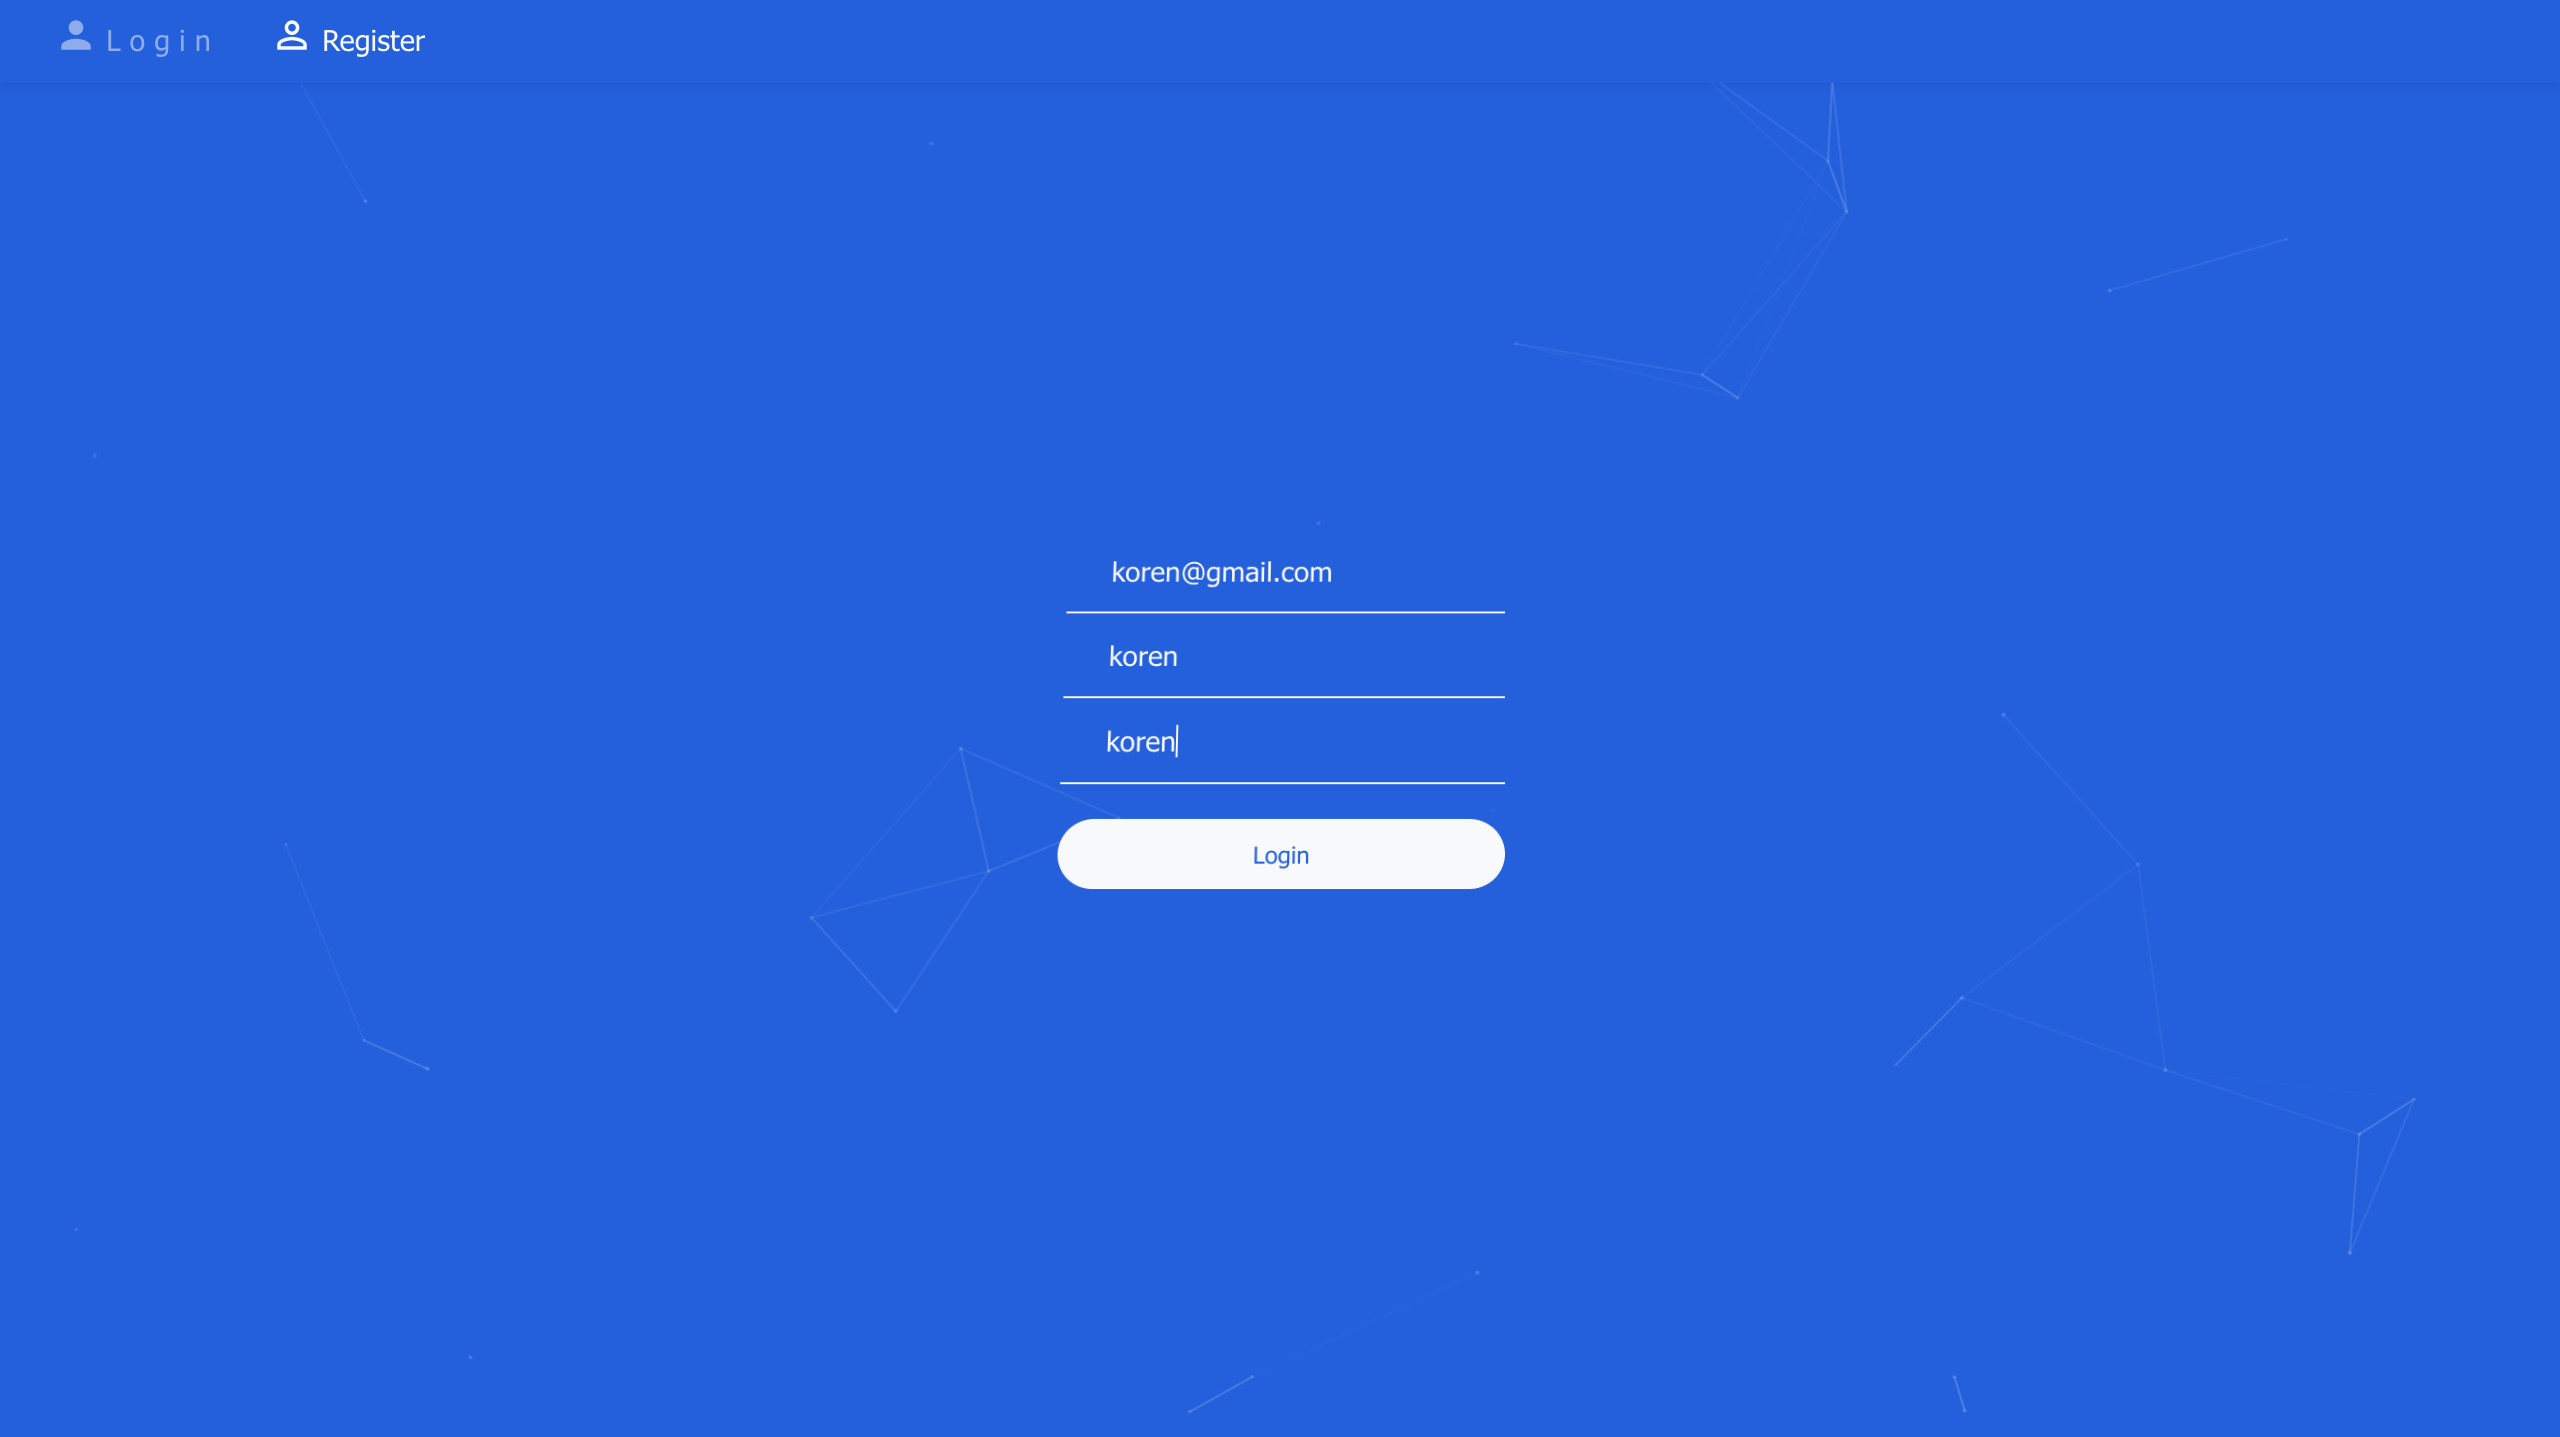
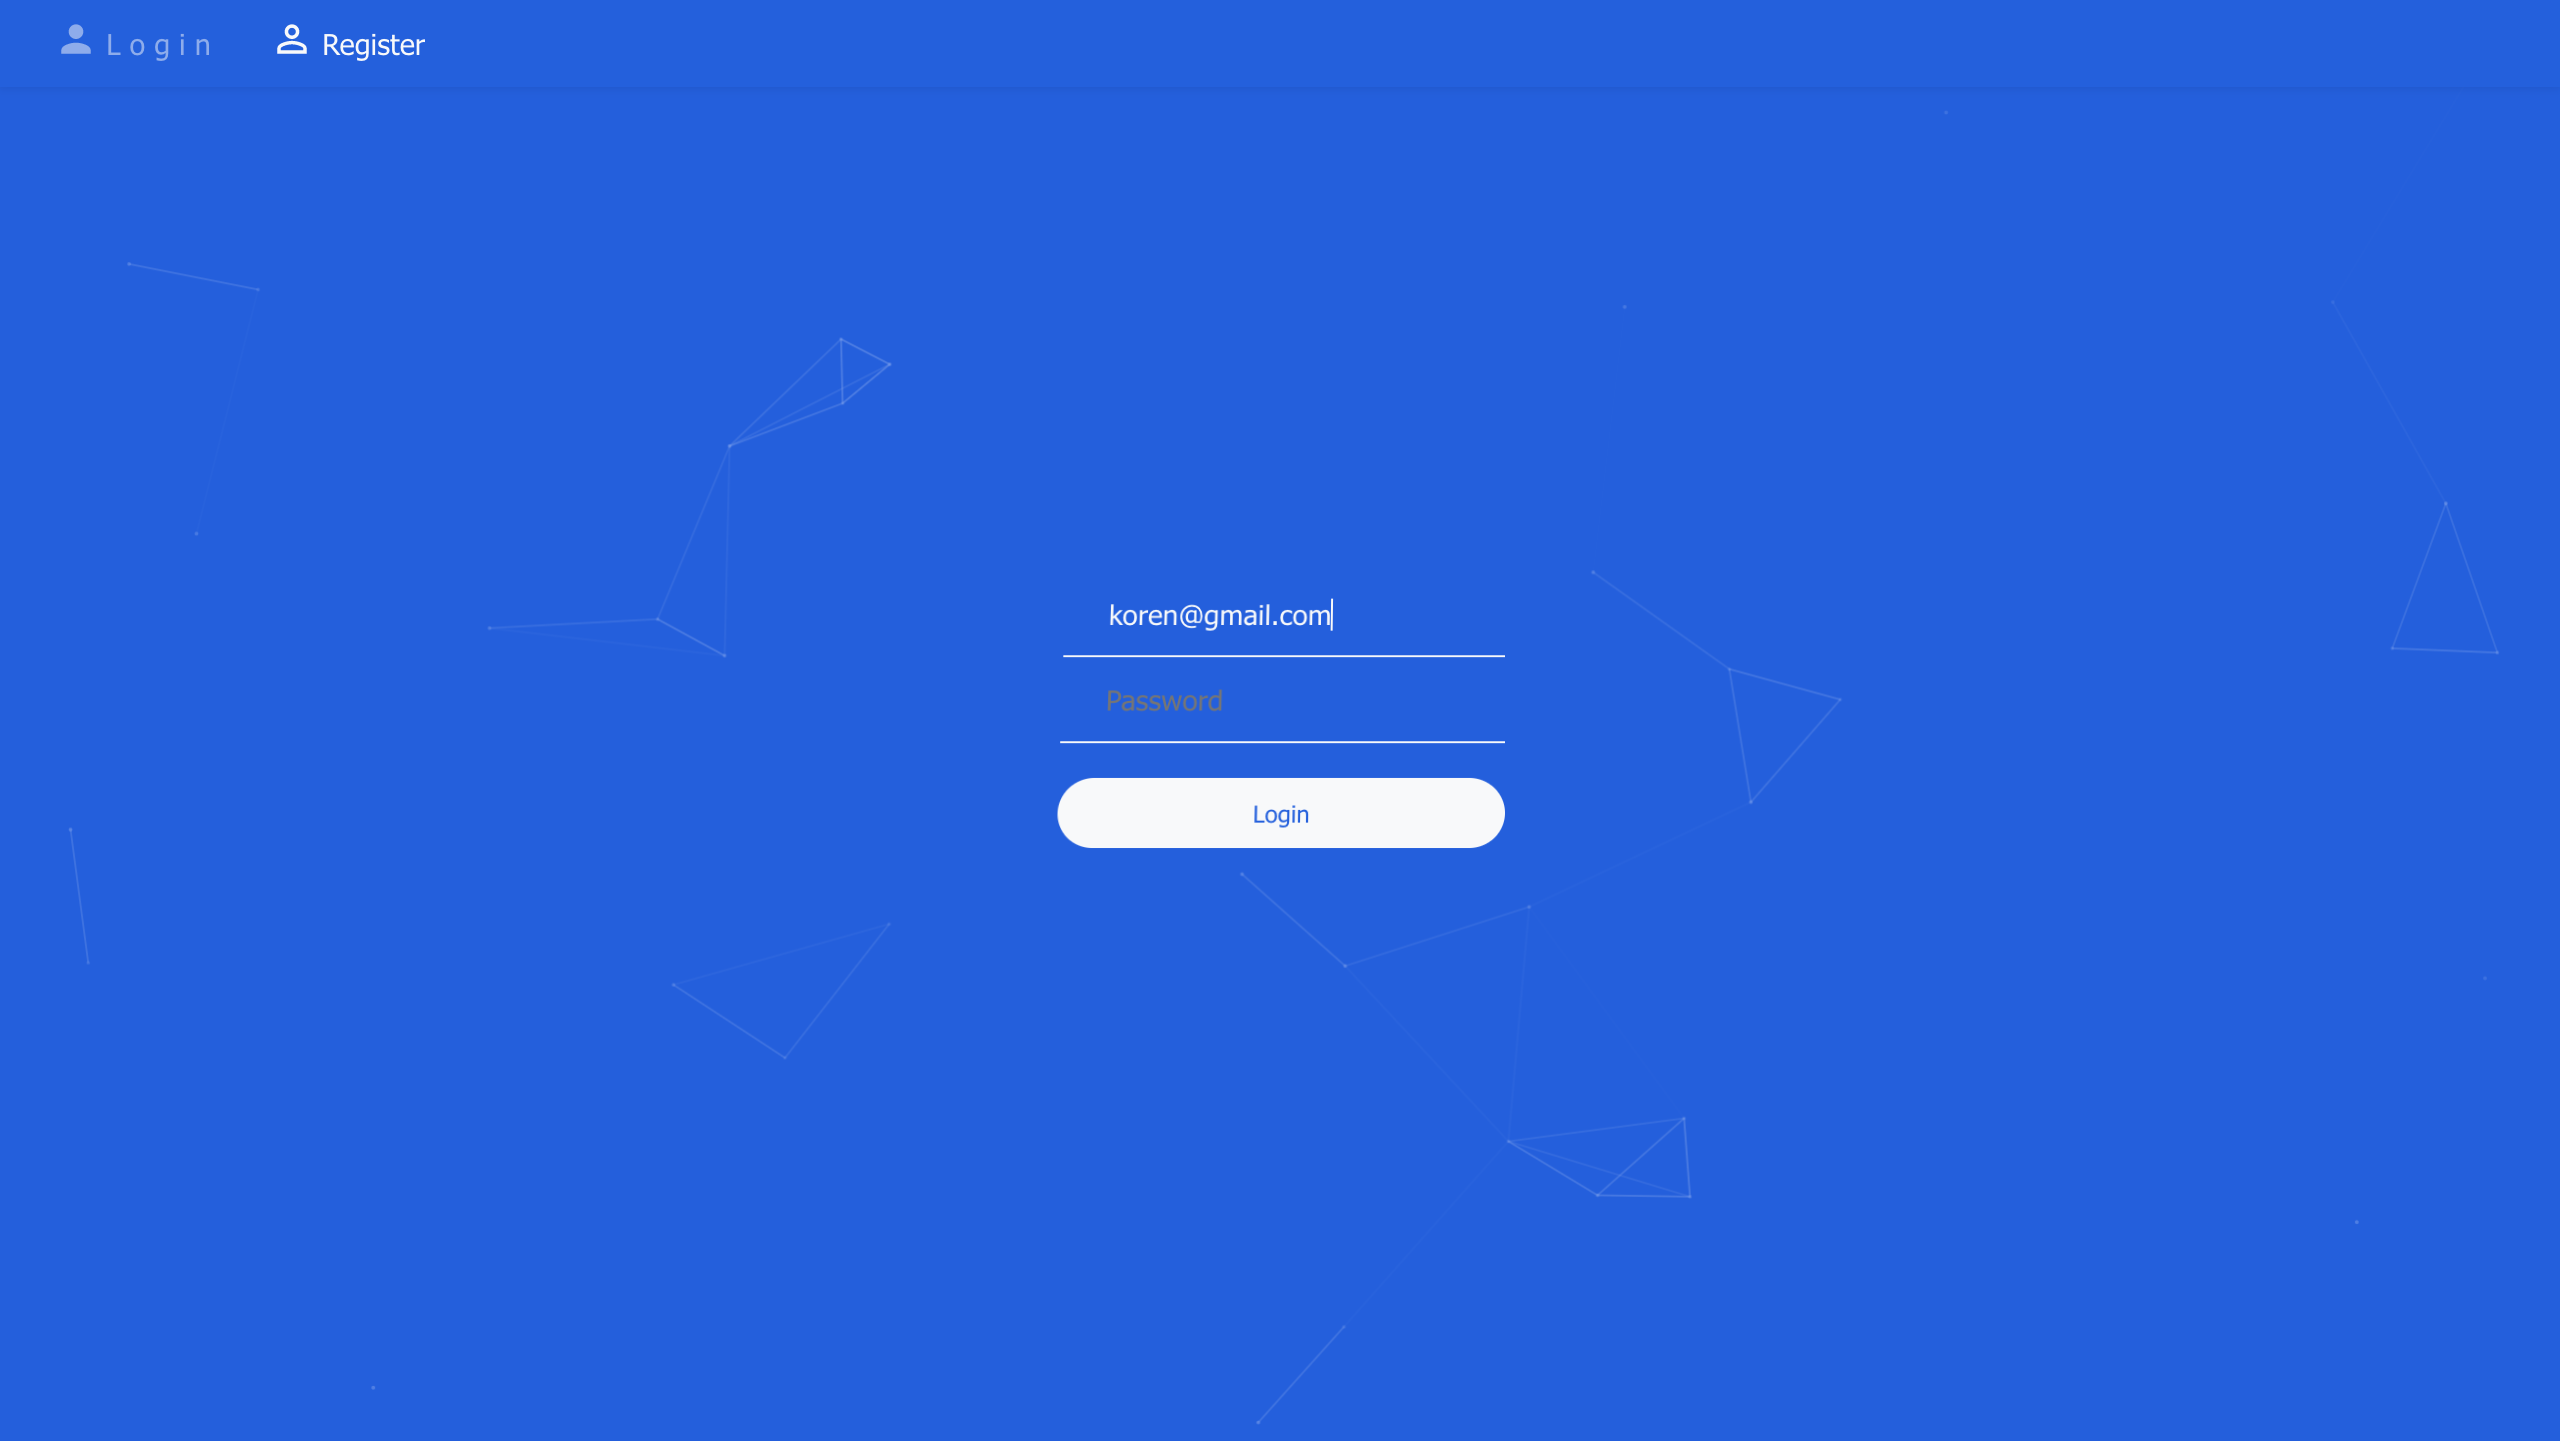
add prtected,router

Changed region(s): [[0.4062, 0.3981, 0.5938, 0.643], [0.125, 0.0, 0.1562, 0.0612]]

diff --git a/client/src/components/Login.js b/client/src/components/Login.js
@@ -1,22 +1,25 @@
 import React, { useState } from 'react'
 import axios from 'axios'
-import Validation from './Validation'
+import {Validation} from './Protected'
 import config from '../config.json'
-import { toast } from 'react-toastify';
+import { toast } from 'react-toastify'
+import { useHistory } from "react-router-dom"
+import Auth from './Auth'
 
 export default function Login() {
+    const history = useHistory()
     const [email , setEmail] = useState('')
-    const [name , setName] = useState('')
     const [password , setPassword] = useState('')
     
 
     const Login = () =>{
-        !Validation(email , name , password)? console.log(config.FIELD_ERR) :
-        axios.post( config.LOGIN_URL , {email , name , password})
+        !Validation(email , 'LOGIN' , password)? console.log(config.FIELD_ERR) :
+        axios.post( config.LOGIN_URL , {email , password})
         .then(res =>{
             toast.configure();
             toast.info(config.LOGIN_SUCCESS, {autoClose: 2000});
-            setEmail('');setName('');setPassword('');
+            sessionStorage.setItem('name', res.data.name);
+            Auth.login(() => {history.push("/main")})
         })
         .catch(err => {
             toast.configure();
@@ -26,9 +29,8 @@ export default function Login() {
 
     return (
         <div className='card-form'>
-             <input value={email} type='text' placeholder='Email' onChange={e=>setEmail(e.target.value)}/>
-            <input value={name} type='text' placeholder='Name' onChange={e=>setName(e.target.value)}/>
-            <input value={password} type='text' placeholder='Password' onChange={e=>setPassword(e.target.value)}/>
+             <input type='text' placeholder='Email' onChange={e=>setEmail(e.target.value)}/>
+            <input type='text' placeholder='Password' onChange={e=>setPassword(e.target.value)}/>
             <button onClick={()=>Login()}>Login</button>
         </div>
     )

diff --git a/client/src/components/Register.js b/client/src/components/Register.js
@@ -1,10 +1,12 @@
 import React, { useState } from 'react'
 import axios from 'axios'
-import Validation from './Validation'
+import {Validation} from './Protected'
 import config from '../config.json'
 import { toast } from 'react-toastify';
+import { useHistory } from "react-router-dom"
 
 export default function Register() {
+    const history = useHistory()
     const [email , setEmail] = useState('')
     const [name , setName] = useState('')
     const [password , setPassword] = useState('')
@@ -15,7 +17,7 @@ export default function Register() {
         .then(res =>{
             toast.configure();
             toast.info(config.REGISTER_SUCCESS, {autoClose: 2000});
-            setEmail('');setName('');setPassword('');
+            history.push("/")
         })
         .catch(err => {
             toast.configure();
@@ -25,9 +27,9 @@ export default function Register() {
 
     return (
         <div className='card-form'>
-            <input value={email} type='text' placeholder='Email' onChange={e=>setEmail(e.target.value)}/>
-            <input value={name} type='text' placeholder='Name' onChange={e=>setName(e.target.value)}/>
-            <input value={password} type='text' placeholder='Password' onChange={e=>setPassword(e.target.value)}/>
+            <input type='text' placeholder='Email' onChange={e=>setEmail(e.target.value)}/>
+            <input type='text' placeholder='Name' onChange={e=>setName(e.target.value)}/>
+            <input type='text' placeholder='Password' onChange={e=>setPassword(e.target.value)}/>
             <button onClick={()=>Register()}>Register</button>
         </div>
     )

diff --git a/server.js b/server.js
@@ -1,44 +1,15 @@
 const Client = require('mongodb').MongoClient;
 const config = require('./config.json')
 const express = require("express");
-const bcrypt = require('bcrypt');
+const auth = require('./auth')
 const cors = require('cors')
 const app = express();
+
 app.use(express.json());
 app.use(cors())
+app.use('/auth', auth);
 
-app.post('/register',(req,res) => {
-    Client.connect(config.URL ,  { useUnifiedTopology: true } ,(err, db) => {
-        if (err) throw err;
-        bcrypt.hash(req.body.password, 10 , (err, password) => {
-        db.db(config.DB).collection(config.COLL).insertOne({
-            name:req.body.name,
-            email:req.body.email,
-            password:password
-        }
-        ,(err, res) => {
-          if (err) throw err;
-          db.close();
-        })})
-        res.status(200).json(config.SUCCESS)
-    });
-});
-
-app.post('/login',(req,res) => {
-    Client.connect(config.URL , { useUnifiedTopology: true },(err, db) => {
-        if (err) throw err;
-        db.db(config.DB).collection(config.COLL).find({email:req.body.email}).toArray((err, result) => {
-            db.close();
-            if (err) throw err;
-            result.length===0? res.status(401).json(config.FAIL[1]):
-            bcrypt.compare(req.body.password, result[0].password , (err, bcryptStatus) => {
-                bcryptStatus?res.status(200).json(result[0]):res.status(401).json(config.FAIL[0])
-            });
-        });
-    });
-});
-
-app.listen(5000)
+app.listen(config.PORT)
 
 
 

diff --git a/auth.js b/auth.js
@@ -1,0 +1,39 @@
+const bcrypt = require('bcrypt');
+const Client = require('mongodb').MongoClient;
+const config = require('./config.json')
+const express = require('express')
+const router = express.Router()
+
+router.post('/register',(req,res) => {
+    Client.connect(config.URL ,  { useUnifiedTopology: true } ,(err, db) => {
+        if (err) throw err;
+        bcrypt.hash(req.body.password, 10 , (err, password) => {
+        db.db(config.DB).collection(config.COLL).insertOne({
+            name:req.body.name,
+            email:req.body.email,
+            password:password
+        }
+        ,(err, res) => {
+          if (err) throw err;
+          db.close();
+        })})
+        res.status(200).json(config.SUCCESS)
+    });
+});
+
+router.post('/login',(req,res) => {
+    Client.connect(config.URL , { useUnifiedTopology: true },(err, db) => {
+        if (err) throw err;
+        db.db(config.DB).collection(config.COLL).find({email:req.body.email}).toArray((err, result) => {
+            db.close();
+            if (err) throw err;
+            result.length===0? res.status(401).json(config.FAIL[1]):
+            bcrypt.compare(req.body.password, result[0].password , (err, bcryptStatus) => {
+                bcryptStatus?res.status(200).json(result[0]):res.status(401).json(config.FAIL[0])
+            });
+        });
+    });
+});
+
+
+module.exports = router

diff --git a/client/src/App.js b/client/src/App.js
@@ -2,20 +2,22 @@ import Nav from "./components/Nav";
 import Login from "./components/Login"
 import Register from "./components/Register"
 import Particles from 'react-particles-js';
+import { Protected , Main } from "./components/Protected";
 import { BrowserRouter as Router, Route , Redirect } from "react-router-dom";
 
 function App() {
   return (
       <Router>
-          <Particles className='Particles'
-          params={{particles:{number:{value: 100,density:{enable: true,value_area: 3000,},},},}}
-          />
           <Nav/>
           <Route path="/" exact component={()=><Login/>}/>
           <Route path="/register" component={()=><Register/>}/>
+          <Protected path="/main" component={()=><Main/>} />
           <Redirect to='/'/>
+          <Particles className='Particles' params={{particles:{number:{value: 100,density:{enable: true,value_area: 3000,},},},}}/>
       </Router>
   );
 }
 
 export default App;
+
+

diff --git a/client/src/components/Protected.js b/client/src/components/Protected.js
@@ -1,0 +1,32 @@
+import React from "react";
+import { Route } from "react-router-dom";
+import Auth from "./Auth";
+
+const Protected = ({ component: Component, ...rest }) => {
+  return (
+    <Route
+      {...rest}
+      render={(props) => {
+        if (Auth.isauthenticated()) {
+          return <Component {...props} />;
+        }
+      }}
+    />
+  );
+};
+
+
+const Validation = (email , name , password) =>{
+  return true
+}
+
+
+const Main = () =>{
+  return(
+  <div className='card-form' style={{textAlign:'center'}}>
+    <p>Welcome {sessionStorage.getItem('name')}</p>
+  </div>
+  )
+}
+
+export {Validation , Protected , Main}

diff --git a/client/src/components/Auth.js b/client/src/components/Auth.js
@@ -1,0 +1,19 @@
+class Auth {
+  constructor() {
+    this.authenticated = false;
+  }
+  login(cb) {
+    this.authenticated = true;
+    cb();
+  }
+
+  logout(cb) {
+    this.authenticated = false;
+    cb();
+  }
+  isauthenticated() {
+    return this.authenticated;
+  }
+}
+
+export default new Auth();

diff --git a/client/src/index.css b/client/src/index.css
@@ -34,6 +34,7 @@ code {
   width: 250px;
   left: 50%;
   top: 50%;
+  color: white;
   transform: perspective(75em) rotateX(10deg) translate(-50%, -50%);
 }
 
